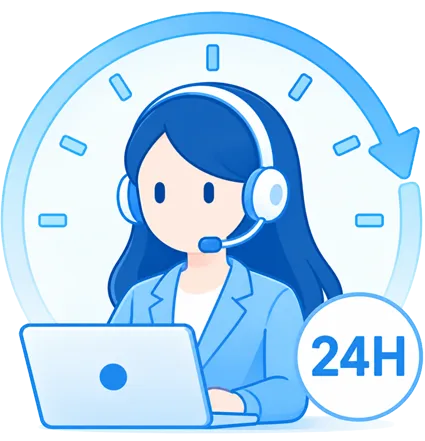
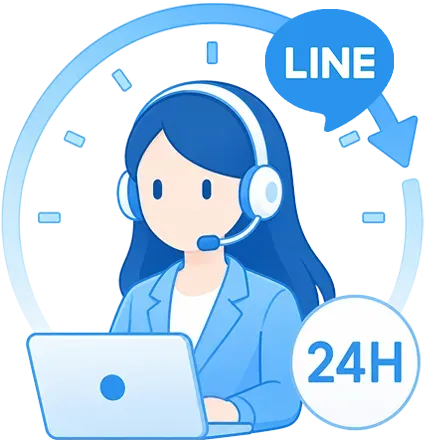
樣式修改

diff --git a/index1.html b/index1.html
@@ -337,12 +337,12 @@ $(function() {
 	      <li>
 	        <ol><img src="images/customer_service_icon2.webp"></ol>
 	        <h6>全天候即時客服</h6>
-	        <p>我們提供不間斷全天候的線上客服，確保玩家隨時順利儲值，加速您的遊戲成長與市場連結。</p>
+	        <p>我們提供不間斷全天候的線上LINE客服，確保玩家隨時順利儲值，加速您的遊戲成長與市場連結。</p>
 	      </li>
 		  <li>
 	        <ol><img src="images/customer_service_icon4.webp"></ol>
-	        <h6>線上LINE客服</h6>
-	        <p>我們提供專人即時服務的線上LINE客服，確保您的問題都能快速即時得到解決。</p>
+	        <h6>多元管道線上回覆</h6>
+	        <p>多語系線上客服提供跨語言即時協助，打造無國界的優質客服體驗，確保您的問題都能快速即時得到解決。</p>
 	      </li>
 	      <dl>
 	        <ol><img src="images/customer_service_icon3.webp"></ol>

diff --git a/css/LMM.css b/css/LMM.css
@@ -144,16 +144,16 @@ body {
 }
 #top_bar .menu li:hover {background-color:#bddafd;}
 #top_bar .btn {
-	width:5%;
+	width:6%;
 	height:auto;
 	margin:0.75% 2% 0 0;
-	padding:0.25% 0 0.75% 0;
+	padding:0.25% 0 0.5% 0;
 	background-image: url(../images/top_bar_connect_button.png);
 	background-repeat: no-repeat;
 	background-size:100%;
 	font-family: "微軟正黑體";
-	font-size: 13px;
-	line-height: 13px;
+	font-size: 12px;
+	line-height: 12px;
 	font-weight: normal;
 	color: #ffffff;
 	text-align:center;

diff --git a/css/LM.css b/css/LM.css
@@ -152,8 +152,8 @@ body {
 	background-repeat: no-repeat;
 	background-size:100%;
 	font-family: "微軟正黑體";
-	font-size: 16px;
-	line-height: 16px;
+	font-size: 14px;
+	line-height: 14px;
 	font-weight: normal;
 	color: #ffffff;
 	text-align:center;

diff --git a/css/M.css b/css/M.css
@@ -188,7 +188,7 @@ body {
 	width:12%;
 	height:auto;
 	margin:2.2% 2% 0 0;
-	padding:0.5% 0 4% 0;
+	padding:0.75% 0 2% 0;
 	background-image: url(../images/top_bar_connect_button.png);
 	background-repeat: no-repeat;
 	background-size:100%;
